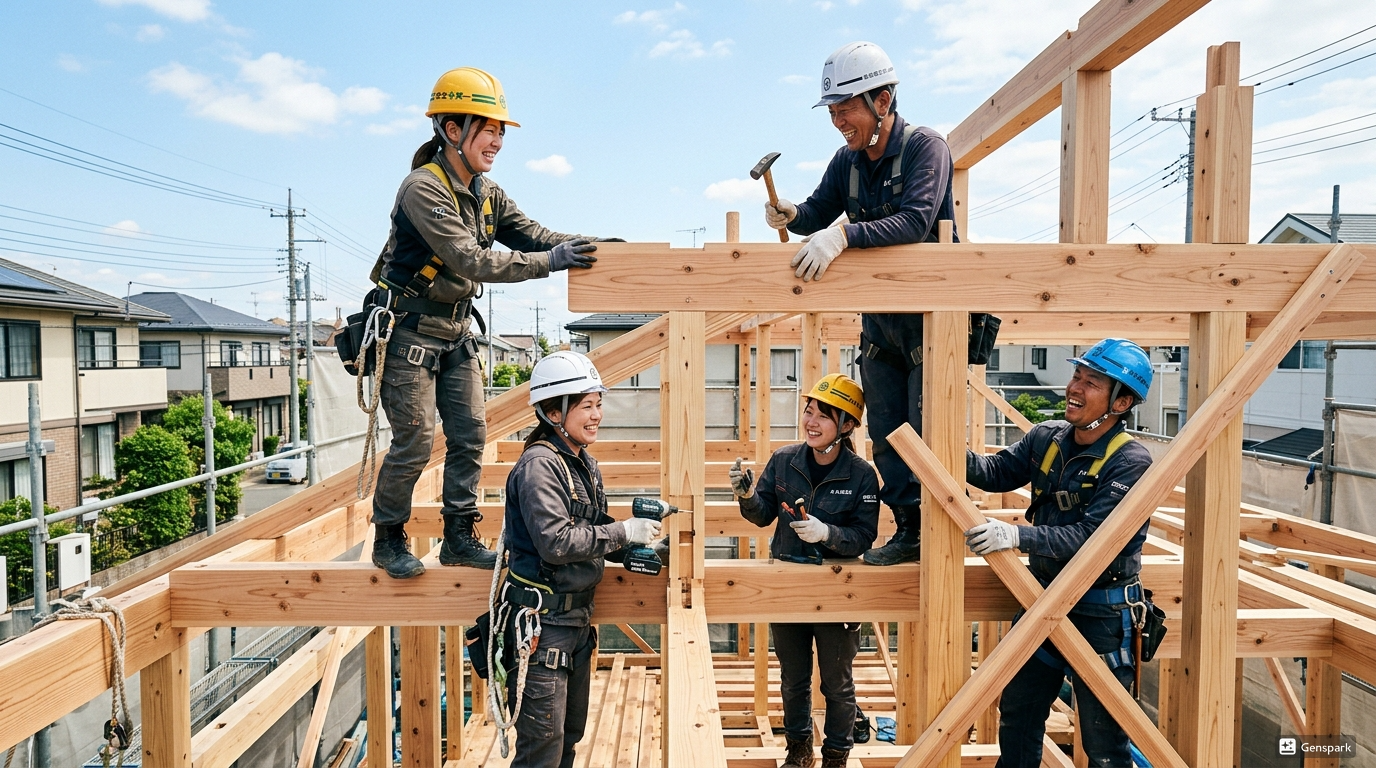
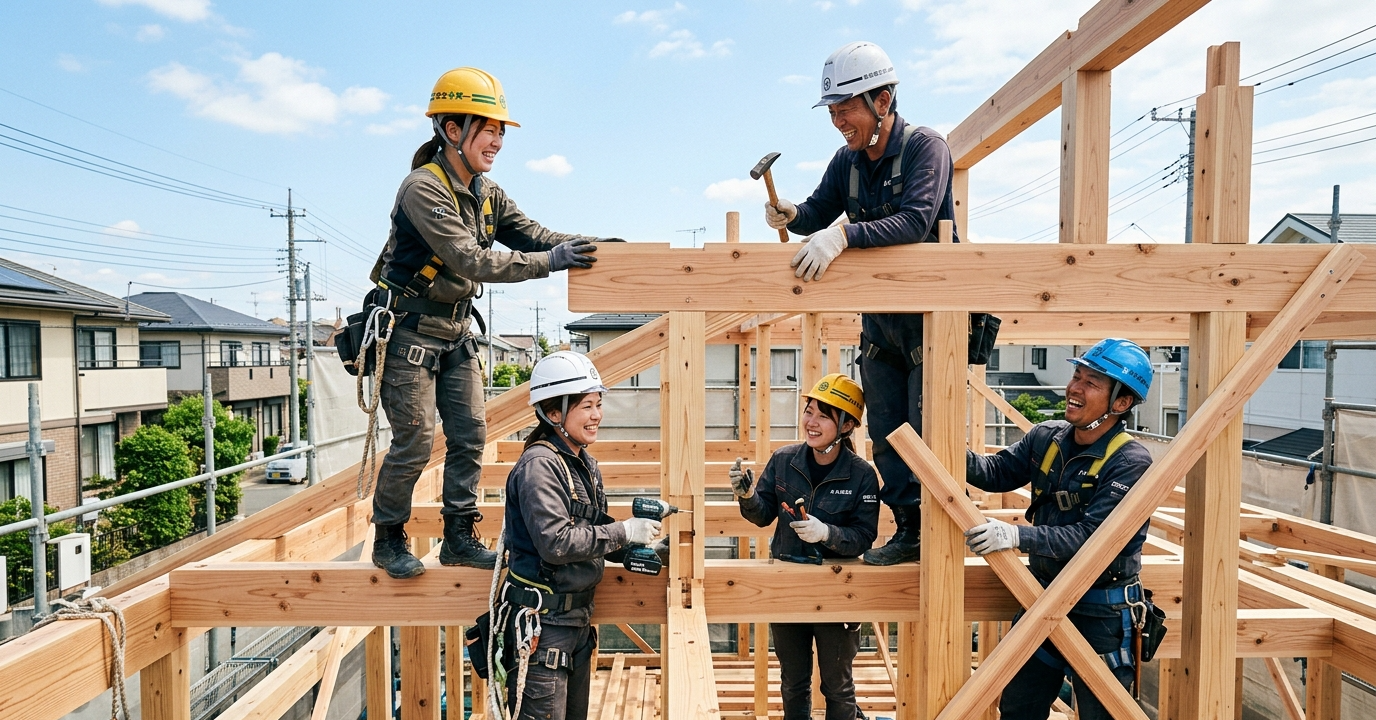
AI画像の透かし・他社名を除去し表記を修正
- 01-04.png: 下端48pxをトリミングしGensparkのウォーターマークを除去
- 01.png: ヘルメットの他社名「田中建設」2箇所をぼかし処理
- 「求ర్ణ募集」の文字化けを「求人募集」に修正
- 会社概要の「所在地 本社 石川県」を「施工エリア 石川県全土」に変更
- 公式HPリンク4箇所を http:// から https:// に変更
- フッターの著作権表記を2026年に更新

diff --git a/index.html b/index.html
@@ -129,7 +129,7 @@
         <div class="max-w-6xl mx-auto px-4 sm:px-6 lg:px-8 w-full">
             <div class="max-w-3xl">
                 <span class="inline-block py-1 px-3 rounded-full bg-brand-orange/20 text-brand-orange border border-brand-orange/50 font-bold text-sm mb-6 animate-pulse">
-                    石川県全土（特に小松市 金沢市中心）求ర్ణ募集
+                    石川県全土（特に小松市 金沢市中心）求人募集
                 </span>
                 <h1 class="text-4xl sm:text-5xl md:text-6xl font-black text-white leading-tight mb-6">
                     石川の空に 共に<br>
@@ -147,7 +147,7 @@
                     <a href="#contact" class="text-center bg-brand-orange hover:bg-orange-600 text-white text-lg px-8 py-4 rounded-full font-bold shadow-lg hover:shadow-xl transition transform hover:-translate-y-1">
                         今すぐ応募 相談する <i class="fa-solid fa-arrow-right ml-2"></i>
                     </a>
-                    <a href="http://jyoushou.com/" target="_blank" rel="noopener noreferrer" class="text-center bg-white/10 hover:bg-white/20 backdrop-blur-md border border-white/30 text-white text-lg px-8 py-4 rounded-full font-bold transition">
+                    <a href="https://jyoushou.com/" target="_blank" rel="noopener noreferrer" class="text-center bg-white/10 hover:bg-white/20 backdrop-blur-md border border-white/30 text-white text-lg px-8 py-4 rounded-full font-bold transition">
                         会社HPを見る <i class="fa-solid fa-external-link-alt ml-2 text-sm"></i>
                     </a>
                 </div>
@@ -470,10 +470,10 @@
                             <td class="py-5 px-6 text-gray-800 font-bold">堀 真実</td>
                         </tr>
                         <tr class="border-b border-gray-100">
-                            <th class="py-5 px-6 bg-gray-50 font-bold text-brand-blue">所在地</th>
+                            <th class="py-5 px-6 bg-gray-50 font-bold text-brand-blue">施工エリア</th>
                             <td class="py-5 px-6 text-gray-800">
-                                本社 石川県（石川県全土・小松市中心に対応）<br>
-                                <span class="text-sm text-gray-500">詳細な住所やアクセスは公式HPをご覧ください</span>
+                                石川県全土（小松市 金沢市中心）<br>
+                                <span class="text-sm text-gray-500">現場は石川県内です 詳細は公式HPをご覧ください</span>
                             </td>
                         </tr>
                         <tr class="border-b border-gray-100">
@@ -483,8 +483,8 @@
                         <tr>
                             <th class="py-5 px-6 bg-gray-50 font-bold text-brand-blue">公式HP</th>
                             <td class="py-5 px-6">
-                                <a href="http://jyoushou.com/" target="_blank" class="text-brand-blue hover:text-brand-orange font-bold transition flex items-center">
-                                    http://jyoushou.com/ <i class="fa-solid fa-external-link-alt ml-2 text-xs"></i>
+                                <a href="https://jyoushou.com/" target="_blank" class="text-brand-blue hover:text-brand-orange font-bold transition flex items-center">
+                                    https://jyoushou.com/ <i class="fa-solid fa-external-link-alt ml-2 text-xs"></i>
                                 </a>
                             </td>
                         </tr>
@@ -512,7 +512,7 @@
 
             <div class="flex flex-col md:flex-row flex-wrap justify-center items-stretch gap-6">
                 <!-- Website Link -->
-                <a href="http://jyoushou.com/" target="_blank" rel="noopener noreferrer" class="w-full md:w-auto flex flex-col items-center justify-center bg-white text-brand-blue hover:bg-gray-100 px-8 py-4 rounded-xl font-bold shadow-lg transition transform hover:-translate-y-1">
+                <a href="https://jyoushou.com/" target="_blank" rel="noopener noreferrer" class="w-full md:w-auto flex flex-col items-center justify-center bg-white text-brand-blue hover:bg-gray-100 px-8 py-4 rounded-xl font-bold shadow-lg transition transform hover:-translate-y-1">
                     <div class="flex items-center text-xl">
                         <i class="fa-solid fa-desktop mr-3 text-2xl"></i> WEBサイトから応募
                     </div>
@@ -551,11 +551,11 @@
                 <p class="text-sm">石川県全土・小松市・金沢市エリアの建方 木造建築</p>
             </div>
             <div class="flex gap-6">
-                <a href="http://jyoushou.com/" target="_blank" class="hover:text-white transition">公式ホームページ <i class="fa-solid fa-external-link-alt text-xs"></i></a>
+                <a href="https://jyoushou.com/" target="_blank" class="hover:text-white transition">公式ホームページ <i class="fa-solid fa-external-link-alt text-xs"></i></a>
             </div>
         </div>
         <div class="max-w-6xl mx-auto px-4 sm:px-6 lg:px-8 mt-8 pt-8 border-t border-gray-800 text-center text-sm">
-            &copy; 2024 株式会社常笑 All Rights Reserved.
+            &copy; 2026 株式会社常笑 All Rights Reserved.
         </div>
     </footer>
 
